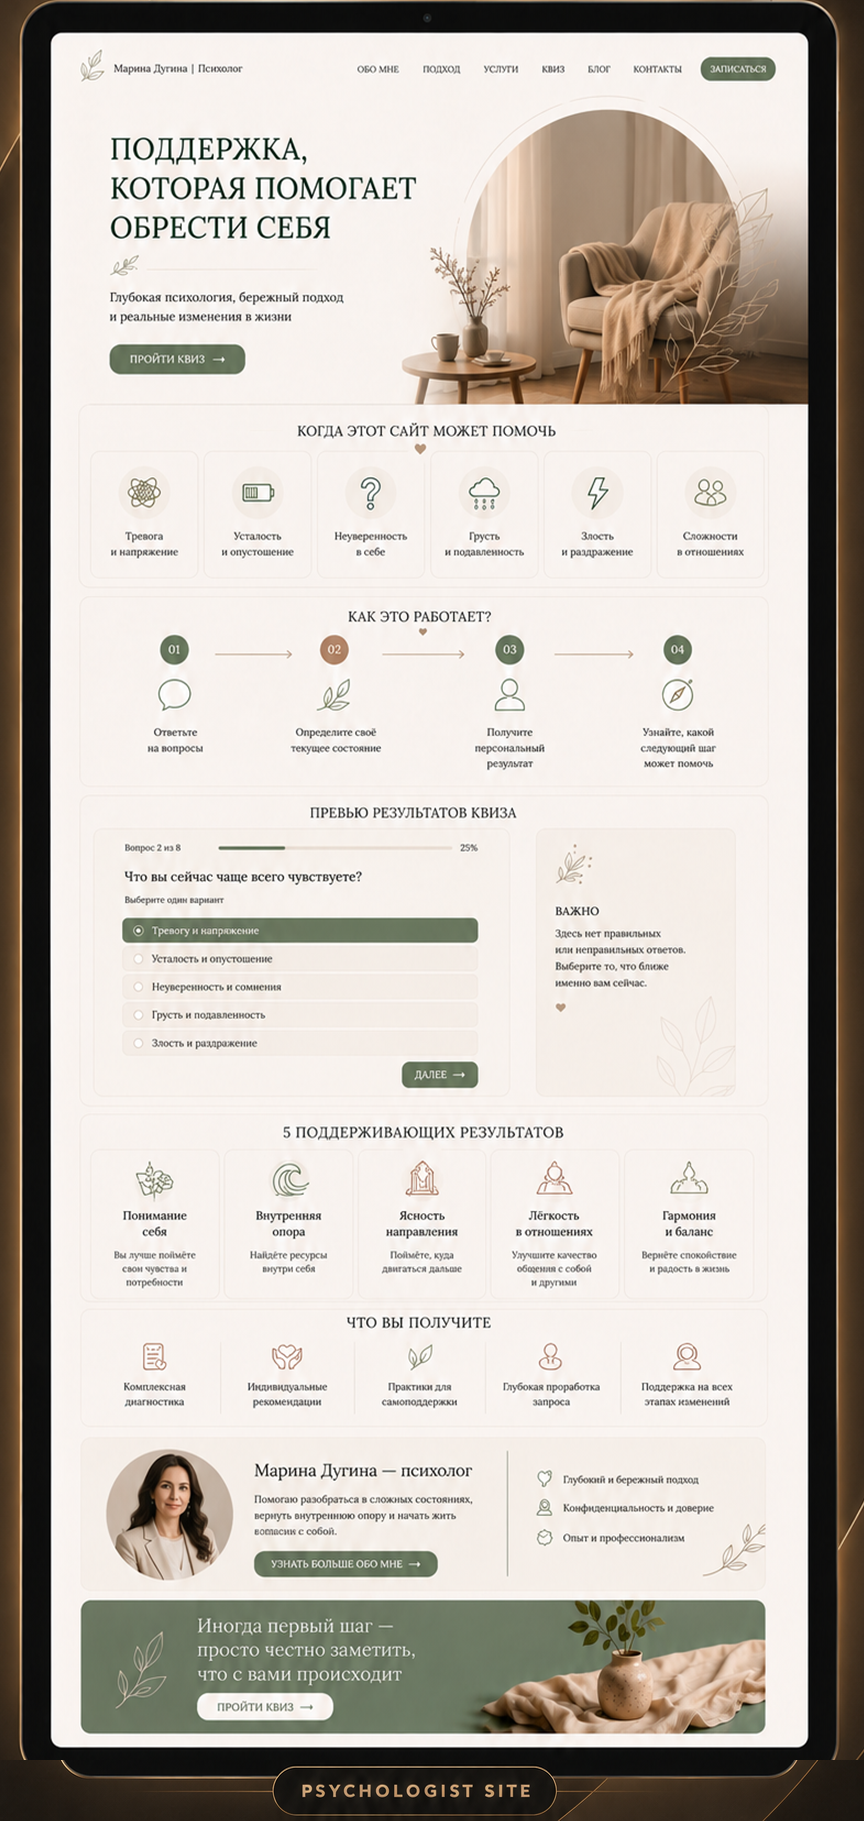
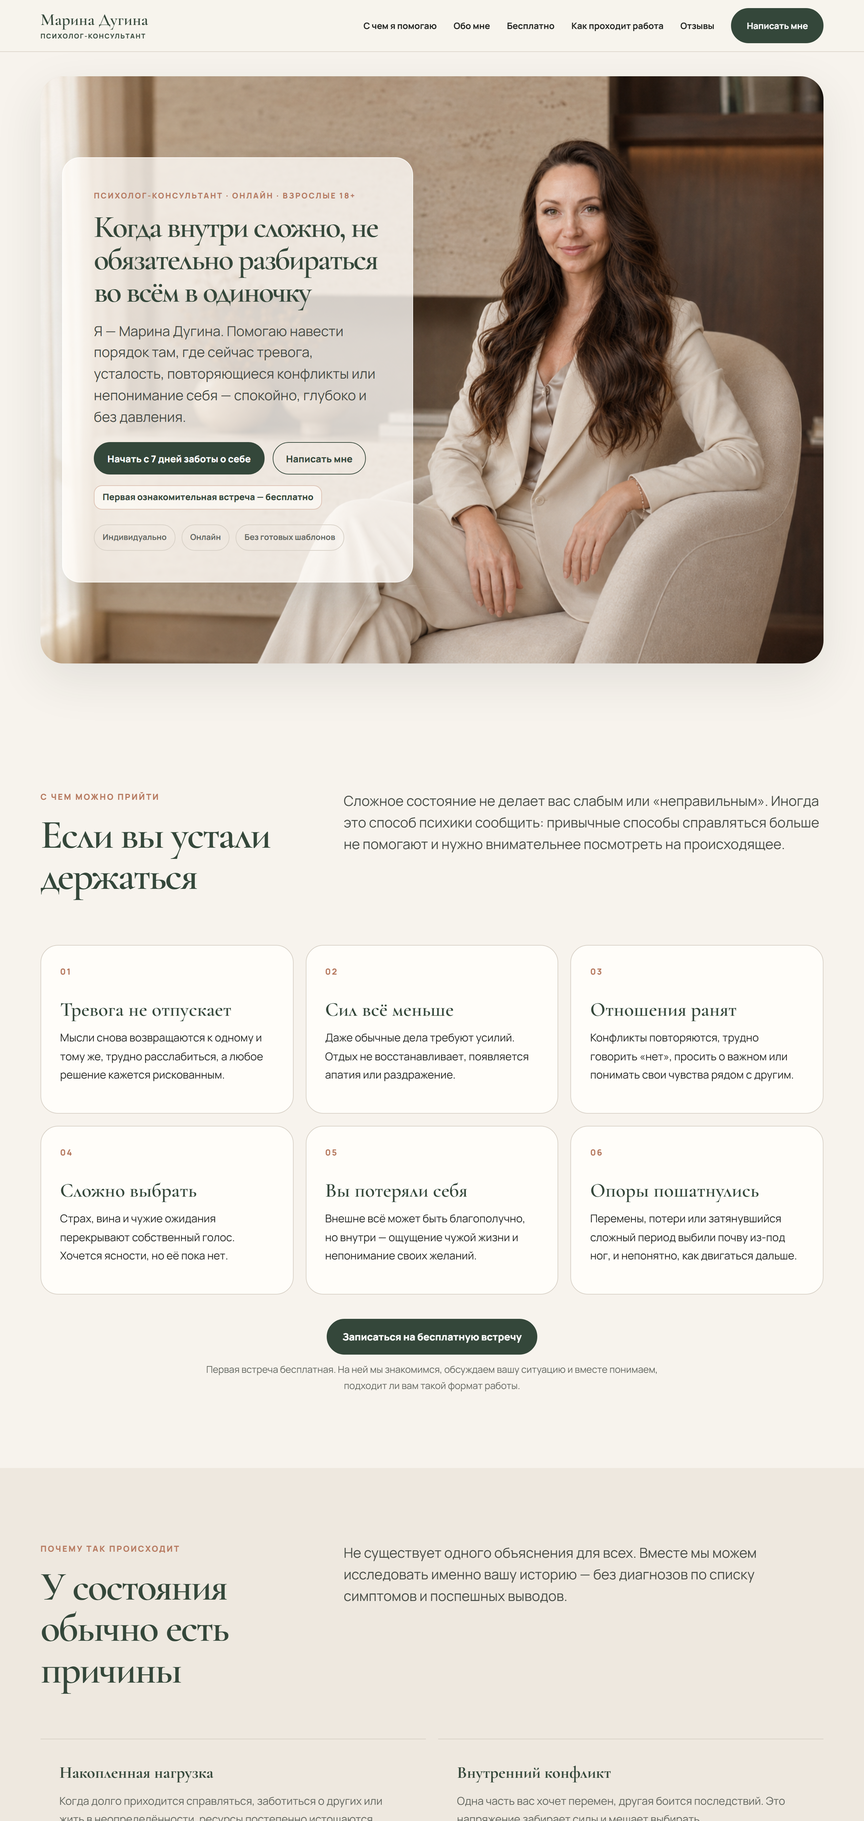
fix: make Marina project image match portfolio series

diff --git a/css/style.css b/css/style.css
@@ -1656,13 +1656,6 @@ ul {
     linear-gradient(135deg, #241a16, #100d0b 55%, #a9705a);
 }
 
-.marina-site .case-image-frame img {
-  width: 100%;
-  height: 100%;
-  object-fit: contain;
-  object-position: center;
-}
-
 .device-mockup,
 .dashboard-mockup,
 .calc-mockup,
